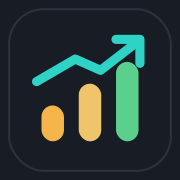
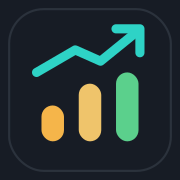
Add files via upload

Changed region(s): [[0.1667, 0.1111, 0.8056, 0.5]]

diff --git a/index.html b/index.html
@@ -139,9 +139,9 @@
         <rect x="26" y="26" width="460" height="460" rx="98" fill="none" stroke="#2B323C" stroke-width="6"/>
         <rect x="118" y="300" width="64" height="102" rx="32" fill="#F5B54A"/>
         <rect x="224" y="238" width="64" height="164" rx="32" fill="#EFC46B"/>
-        <rect x="330" y="176" width="64" height="226" rx="32" fill="#5BD08C"/>
-        <path d="M104 232 L214 168 L286 200 L392 118" fill="none" stroke="#2ED3C6" stroke-width="26" stroke-linecap="round" stroke-linejoin="round"/>
-        <path d="M330 112 L398 112 L398 180" fill="none" stroke="#2ED3C6" stroke-width="26" stroke-linecap="round" stroke-linejoin="round"/>
+        <rect x="330" y="206" width="64" height="196" rx="32" fill="#5BD08C"/>
+        <path d="M104 206 L214 142 L286 174 L392 88" fill="none" stroke="#2ED3C6" stroke-width="26" stroke-linecap="round" stroke-linejoin="round"/>
+        <path d="M330 82 L398 82 L398 150" fill="none" stroke="#2ED3C6" stroke-width="26" stroke-linecap="round" stroke-linejoin="round"/>
       </svg>
       <span class="brand-txt">Mi<span class="brand-hl">Ahorro</span></span>
     </div>
@@ -225,9 +225,9 @@
       <rect x="26" y="26" width="460" height="460" rx="98" fill="none" stroke="#2B323C" stroke-width="6"/>
       <rect x="118" y="300" width="64" height="102" rx="32" fill="#F5B54A"/>
       <rect x="224" y="238" width="64" height="164" rx="32" fill="#EFC46B"/>
-      <rect x="330" y="176" width="64" height="226" rx="32" fill="#5BD08C"/>
-      <path d="M104 232 L214 168 L286 200 L392 118" fill="none" stroke="#2ED3C6" stroke-width="26" stroke-linecap="round" stroke-linejoin="round"/>
-      <path d="M330 112 L398 112 L398 180" fill="none" stroke="#2ED3C6" stroke-width="26" stroke-linecap="round" stroke-linejoin="round"/>
+      <rect x="330" y="206" width="64" height="196" rx="32" fill="#5BD08C"/>
+      <path d="M104 206 L214 142 L286 174 L392 88" fill="none" stroke="#2ED3C6" stroke-width="26" stroke-linecap="round" stroke-linejoin="round"/>
+      <path d="M330 82 L398 82 L398 150" fill="none" stroke="#2ED3C6" stroke-width="26" stroke-linecap="round" stroke-linejoin="round"/>
     </svg>
   </div>
   <h2 class="wel-title">Bienvenido a <span style="color:var(--teal)">MiAhorro</span></h2>
